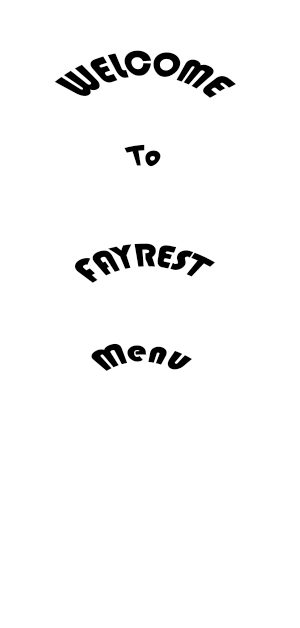
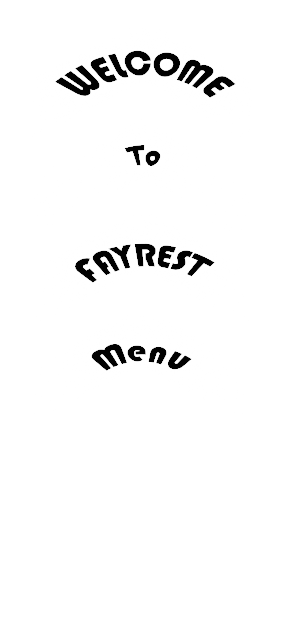
Faycal: edit SpecialMenu

diff --git a/src/container/AboutUs/AboutUs.jsx b/src/container/AboutUs/AboutUs.jsx
@@ -15,7 +15,7 @@ const AboutUs = () => {
     gsap.from("#aboutBild", {
       opacity: 0,
       y: 20,
-      duration: 3,
+      duration: 2,
       ease: "back.inOut",
       scrollTrigger: {
         trigger: "#aboutBild",
@@ -28,7 +28,7 @@ const AboutUs = () => {
       ease: "power1.inOut",
       opacity: 0,
       y: 10,
-      duration: 3.5,
+      duration: 1.5,
       scrollTrigger: {
         trigger: "#aboutBild",
         start: "center 70%",
@@ -43,7 +43,7 @@ const AboutUs = () => {
         ease: "power1.inOut",
         opacity: 1,
         y: 0,
-        duration: 5,
+        duration: 3,
         stagger: 0.1,
         scrollTrigger: {
           trigger: "#aboutBild",
@@ -60,7 +60,7 @@ const AboutUs = () => {
         ease: "power1.inOut",
         opacity: 1,
         scale: 1,
-        duration: 5,
+        duration: 3,
 
         scrollTrigger: {
           trigger: "#aboutBild",

diff --git a/src/container/Menu/SpecialMenu.jsx b/src/container/Menu/SpecialMenu.jsx
@@ -53,8 +53,8 @@ const SpecialMenu = () => {
           className="h-[80vh] bg-balck w-full flex justify-center  items-start"
           // style={{ backgroundImage: `url()`,  }}
         >
-          <div className="w-[300px]">
-            <img src={images.MenuWelco} alt="" />
+          <div className="">
+            <img src={images.MenuWelco2} alt="" />
           </div>
         </div>
 

diff --git a/src/constants/images.js b/src/constants/images.js
@@ -21,9 +21,11 @@ import quote from "../assets/quote.png";
 import gericht from "../assets/gericht.png";
 import aboutBild from "../assets/AboutBild.png";
 import MenuWelco from "../assets/MenuWelco.png";
+import MenuWelco2 from "../assets/MenuWelco2.png";
 
 export default {
   MenuWelco ,
+  MenuWelco2 ,
   aboutBild,
   bg,
   chef,
